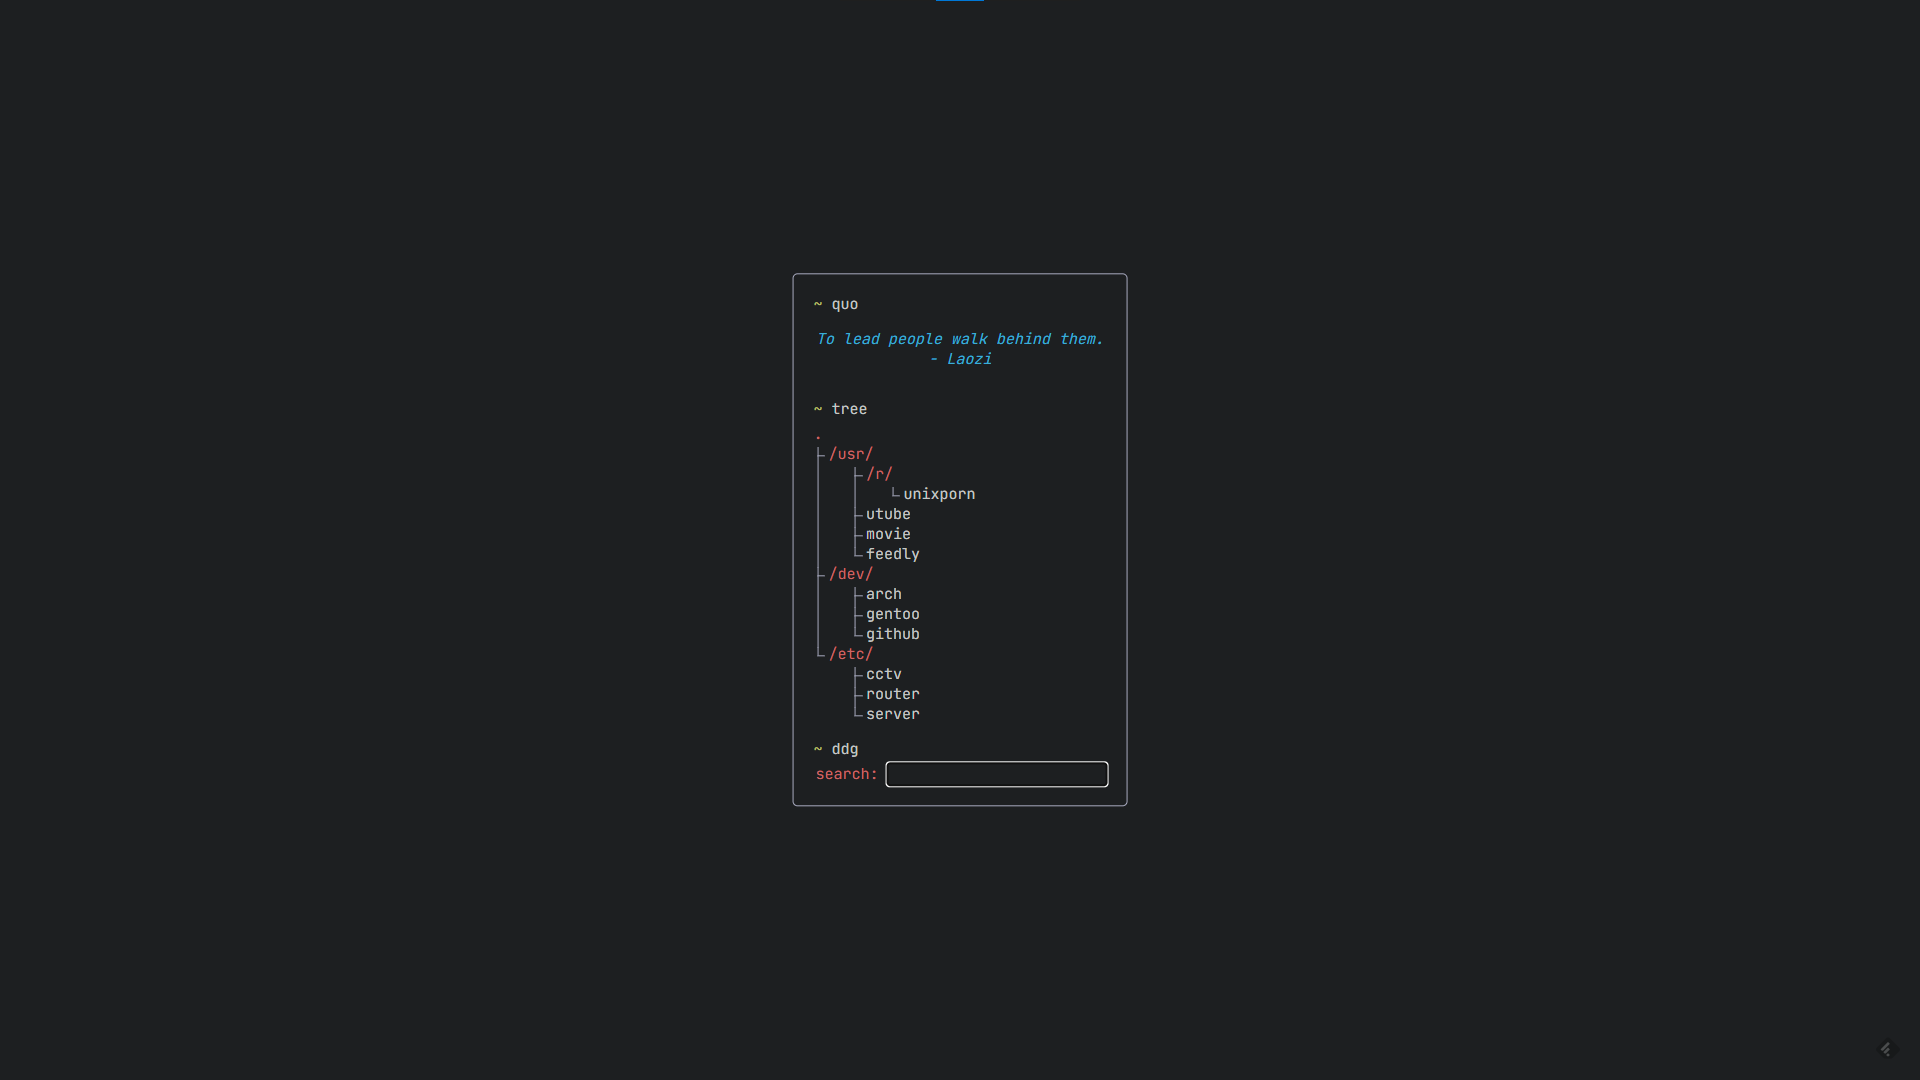
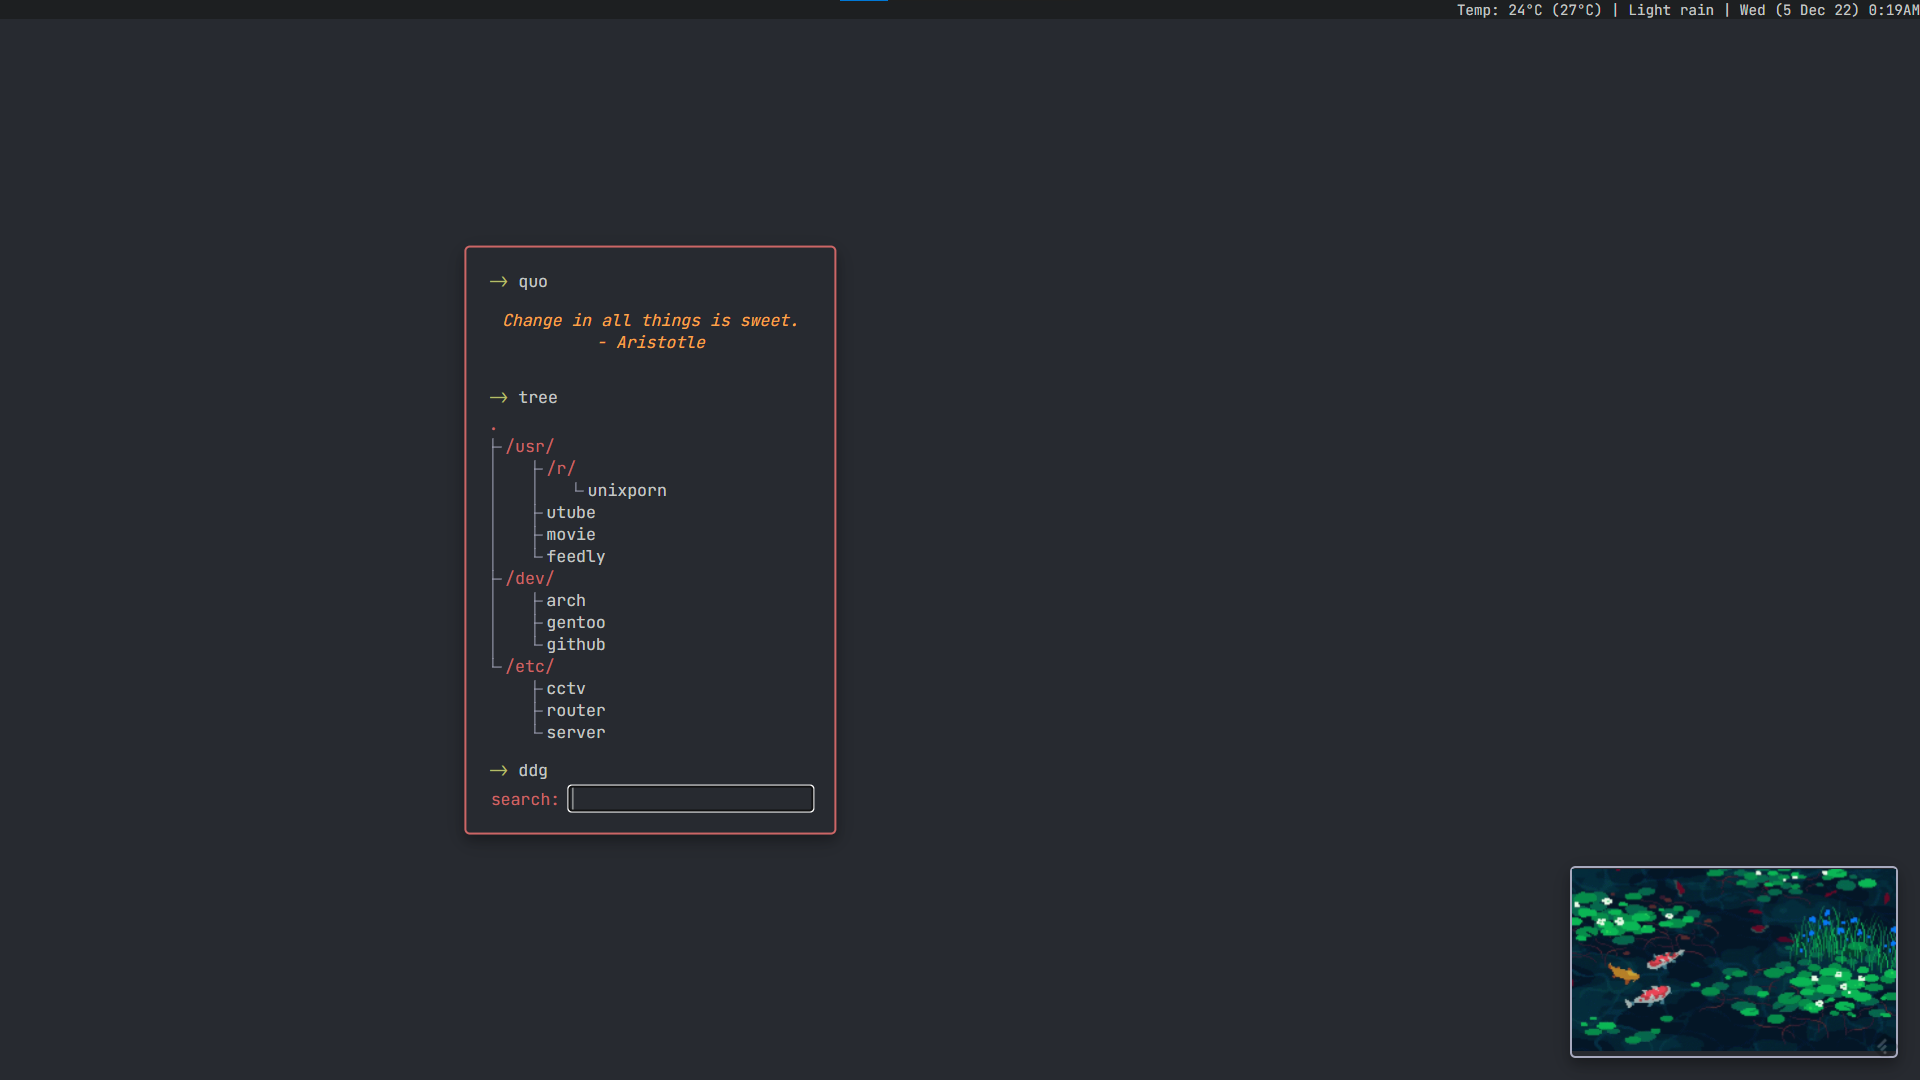
Added features
Added gif, border with dropped shadow, time, weather.

diff --git a/index.html b/index.html
@@ -3,24 +3,25 @@
   <head>
     <link href="https://fonts.googleapis.com/css2?family=JetBrains+Mono&display=swap" rel="stylesheet"> 
     <meta charset="UTF-8">
-    <link rel="stylesheet" type="text/css" href="style.css">
+    <link rel="stylesheet" type="text/css" href="css/style.css">
     <title> ~ </title>
-    <script src="https://ajax.googleapis.com/ajax/libs/jquery/3.5.1/jquery.min.js"></script>
+    <script src="js/time.js"></script>
+    <script src="js/quote.js"></script>
+    <script src="js/weather.js"></script>
   </head>
-  <body>
+  <body onload="startTime()">
+    <div class="statusbar">
+      <div class="clock"></div>
+      <div class="weather"></div>
+    </div>
+    <div class="display">
+      <img src="https://c.tenor.com/TAmmjKMJmwIAAAAC/animated-koi-fish.gif" alt="Imagine this is a pixel fish and raining pond">
+    </div>
     <div class="container">
-      <div class="prompt"><span>~</span> quo
+      <div class="prompt"><span>-></span>  quo
         <p class="ansii"></p>  
-        <script>
-          fetch("https://api.quotable.io/random?maxLength=40")
-            .then(response => response.json())
-            .then(data => {
-              console.log(data.content);
-              document.querySelector(".ansii").innerHTML = data.content + "<br>- " + data.author;
-          })
-        </script>
       </div>
-      <div class="prompt"><span>~</span> tree </div>
+      <div class="prompt"><span>-></span>  tree </div>
       <div class="tree">
         <h1>.</h1>
         <ul>
@@ -56,8 +57,8 @@
           </li>
         </ul>
       </div>
-      <div class="prompt"><span>~</span>  ddg</div>
-      <form action="https://google.com/search?q=" method="GET">
+      <div class="prompt"><span>-></span>  ddg</div>
+      <form action="https://google.com/search?q=" method="GET" class="form">
         <h1>search: </h1>
         <input type="text" name="q" autofocus="autofocus">
       </form>

diff --git a/css/style.css b/css/style.css
@@ -1,7 +1,8 @@
 :root {
     --font: "JetBrains Mono";
-    --background: #1d1f21;
+    --background: #272a30;
     --foreground: #c5c8c6;
+    --statusbar: #1d1f21;
     --green: #b5bd68;
     --red: #cc6666;
     --orange: #f0c674;
@@ -19,21 +20,61 @@ html {
 }
 
 body {
+    font-family: var(--font);
     background: var(--background);
+}
+
+.statusbar {
+    position: absolute;
+    background: var(--statusbar);
+    top: 0;
+    left: 0;
+    height: auto;
+    width: 100%;
+    color: var(--foreground);
+    font-size: 13px;
+    display:flex;
+    flex-direction: row-reverse;
+
+}
+
+.clock{
+    display: table-cell;
+}
+
+.weather{
+    display: table-cell;
+}
+
+.display{
+    position: absolute;
+    bottom: 20px;
+    right: 20px;
+    border: var(--branch);
+    border-radius: 5px;
+    border-width: 2px;
+    box-shadow: 0 6px 10px 0 rgba(0, 0, 0, 0.2), 0 6px 20px 0 rgba(0, 0, 0, 0.19);
+}
+
+img{
+    width: 30vh;
+    color: var(--foreground);
 }
 
 .container {
     position: absolute;
+    background-color: var(--background);
     top: 50%;
-    left: 50%;
-    transform: translate(-50%, -50%);
+    left: 30%;
+    transform: translate(-30%, -50%);
     padding:20px;
-    border: var(--branch);
+    border:  1px solid var(--red);
     border-radius: 5px;
+    border-width: 2px;
+    box-shadow: 0 6px 10px 0 rgba(0, 0, 0, 0.2), 0 6px 20px 0 rgba(0, 0, 0, 0.19);
 }
 
 .prompt {
-    font-family: var(--font);
     color: var(--foreground);
 }
 
@@ -123,7 +164,7 @@ input {
     font-style: italic;
     font-size: 1rem;
     text-align: center;
-    animation: color-change 20s infinite;
+    animation: color-change 30s infinite;
     padding: 0 0.01rem;
 }
 

diff --git a/js/time.js b/js/time.js
@@ -1,0 +1,43 @@
+const monthNames = ["Jan", "Feb", "Mar", "Apr", "May", "Jun", 
+"Jul", "Aug", "Sep", "Oct", "Nov", "Dec"];
+
+const weekNames = ["Sun", "Mon", "Tue", "Wed", "Thu", "Fri", 
+"Sat"];
+
+function startTime() {
+    const d = new Date();
+    let h, M, dayW, month, day, year, m, s;
+    dayW = d.getDay();
+    month = '' + (d.getMonth() + 1);
+    day = '' + d.getDate();
+    year = d.getFullYear() - 2000;
+
+    if (d.getHours() > 12){
+        h = d.getHours() - 12;
+        M = "PM";
+    }else{
+        h = d.getHours();
+        M = "AM";
+    }
+    m = d.getMinutes();
+    s = d.getSeconds();
+    m = checkTime(m);
+    
+    
+    document.getElementsByClassName("clock")[0].innerHTML = 
+        weekNames[dayW] + " (" + 
+        day + " " + 
+        monthNames[month + 1] + " " + 
+        year + ") " + 
+        h + ":" + 
+        m + 
+        M;
+    
+    setTimeout(startTime, 1000);
+}
+
+function checkTime(i) {
+    if (i < 10) {i = "0" + i};  // add zero in front of numbers < 10
+    return i;
+}
+

diff --git a/js/weather.js b/js/weather.js
@@ -1,0 +1,10 @@
+fetch("https://wttr.in/Kuching?format=j1")
+.then(response => response.json())
+.then(data => {
+    document.querySelector(".weather").innerHTML = 
+        "Temp: " + data.current_condition[0].temp_C + "°C (" + 
+        data.current_condition[0].FeelsLikeC +"°C) | " + 
+        data.current_condition[0].weatherDesc[0].value + ' |\xa0';
+}).catch(function() {
+    document.querySelector(".weather").innerHTML =" ";
+});

diff --git a/js/quote.js b/js/quote.js
@@ -1,0 +1,9 @@
+fetch("https://api.quotable.io/random?maxLength=40")
+.then(response => response.json())
+.then(data => {
+    document.querySelector(".ansii").innerHTML = 
+        data.content + "<br>- " + data.author;
+}).catch(function() {
+    document.querySelector(".ansii").innerHTML = 
+        "Your brain is your first Internet <br>- PeterDigger";
+});

diff --git a/README.md b/README.md
@@ -3,7 +3,10 @@
 A customized fork from skovati/startpage ```tree``` inspired startpage with common links
 
 - Added rainbow animation quote (fetched from [this website](https://github.com/lukePeavey/quotable))
-- Added border
-- Changed the html form forwarding to google
+- Added border and dropped shadows
+- Added status bar
+- Added gif
+- Changed the background color to Monokai black
+- Changed the HTML form forwarding to google
 
 ![Screenshot](scrot.png)
